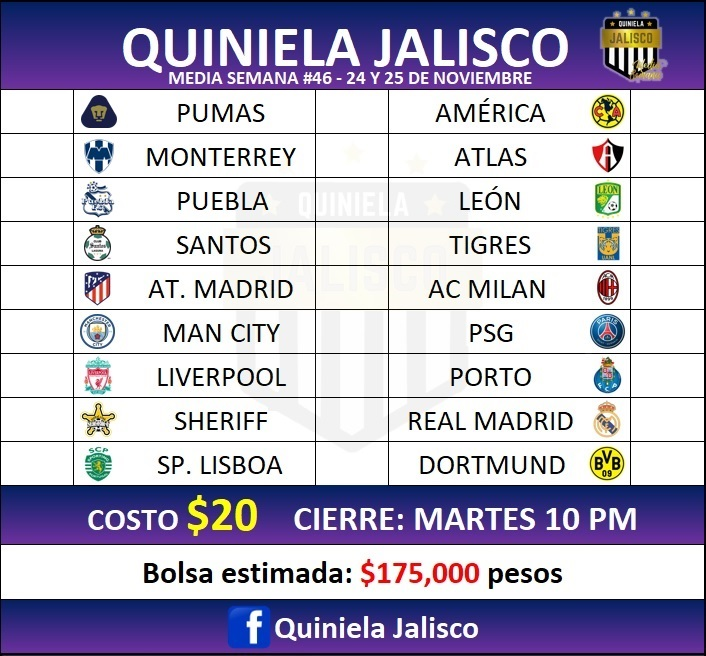
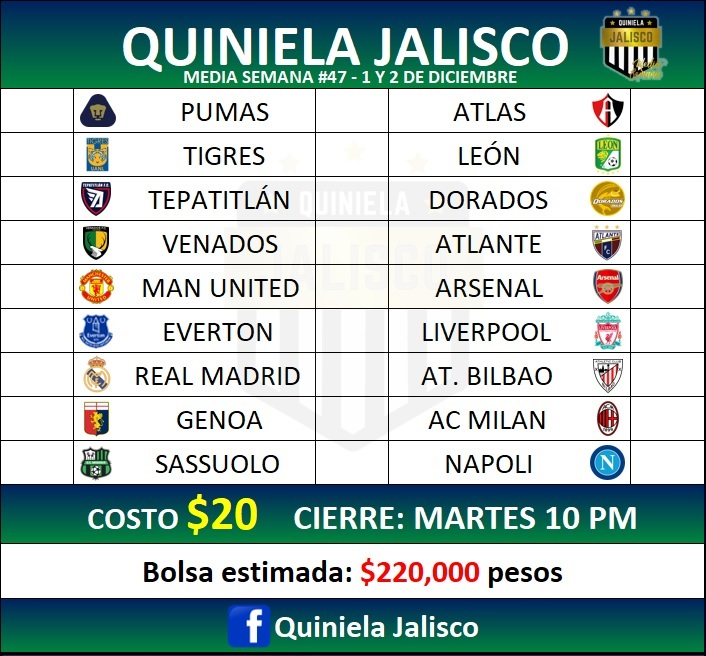
Media Semana #47#

diff --git a/MediaSemana/stylesm.css b/MediaSemana/stylesm.css
@@ -89,8 +89,8 @@ h1{
     margin-top: 8%;
     border: solid 1px black;
     border-radius: 0 0 14px 14px;
-    background: -webkit-linear-gradient(0.5turn, rgb(106,49,154)  ,rgb(10,33,101) 80%);
-    background: linear-gradient(0.5turn, rgb(106,49,154)  ,rgb(10,33,101) 80%);
+    background: -webkit-linear-gradient(0.5turn, rgb(1,130,63)  ,rgb(0,36,96) 80%);
+    background: linear-gradient(0.5turn, rgb(1,130,63)  ,rgb(0,36,96) 80%);
     font-size: x-large;
     text-shadow: 3px 3px 3px black;
 }
